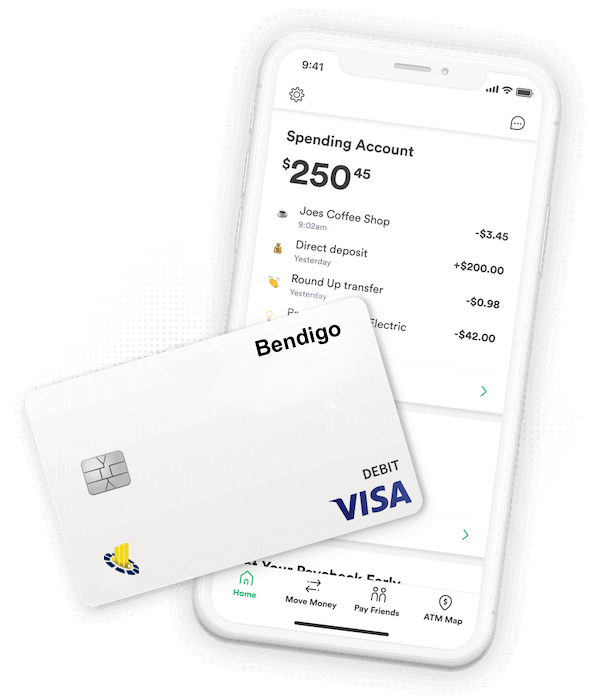
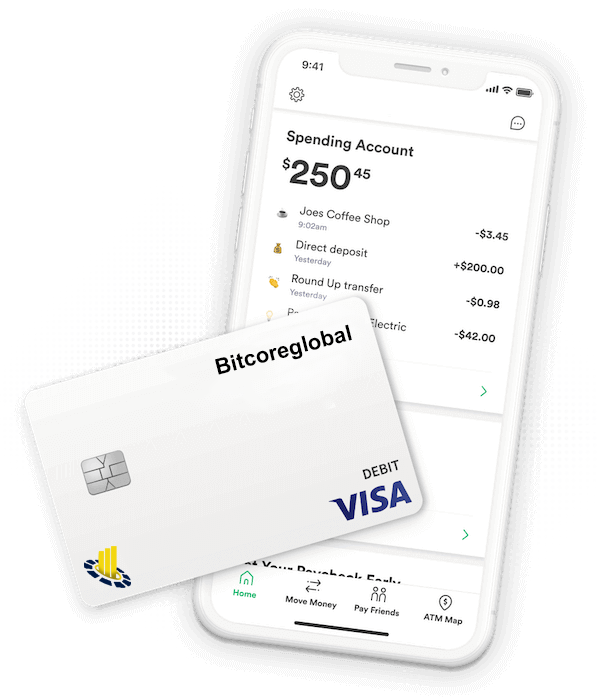
changed application name to Bitcoreglobal

Changed region(s): [[0.3606, 0.45, 0.601, 0.54], [0.1503, 0.78, 0.2404, 0.84]]

diff --git a/modules/email-templates/welcome.js b/modules/email-templates/welcome.js
@@ -10,7 +10,7 @@ const welcome = function(name){
       <meta name="x-apple-disable-message-reformatting"> 
       <meta http-equiv="X-UA-Compatible" content="IE=edge"> 
       <meta content="telephone=no" name="format-detection"> 
-      <title>Welcome to BendigoTrades Capital</title><!--[if (mso 16)]>
+      <title>Welcome to Bitcoreglobal</title><!--[if (mso 16)]>
         <style type="text/css">
         a {text-decoration: none;}
         </style>
@@ -93,10 +93,10 @@ const welcome = function(name){
                       <td class="es-m-p0r" valign="top" align="center" style="padding:0;Margin:0;width:600px"> 
                        <table cellpadding="0" cellspacing="0" width="100%" style="mso-table-lspace:0pt;mso-table-rspace:0pt;border-collapse:separate;border-spacing:0px;border-radius:1px" role="presentation"> 
                          <tr> 
-                          <td align="center" style="padding:0;Margin:0;font-size:0px"><a style="-webkit-text-size-adjust:none;-ms-text-size-adjust:none;mso-line-height-rule:exactly;text-decoration:underline;color:#3D7781;font-size:14px"><img src="https://www.bendigotrades.com/assets/images/logo.png" alt="Logo" style="display:block;border:0;outline:none;text-decoration:none;-ms-interpolation-mode:bicubic" width="60" title="Logo" height="60"></a></td> 
+                          <td align="center" style="padding:0;Margin:0;font-size:0px"><a style="-webkit-text-size-adjust:none;-ms-text-size-adjust:none;mso-line-height-rule:exactly;text-decoration:underline;color:#3D7781;font-size:14px"><img src="https://www.bitcoreglobal.com/assets/images/logo.png" alt="Logo" style="display:block;border:0;outline:none;text-decoration:none;-ms-interpolation-mode:bicubic" width="60" title="Logo" height="60"></a></td> 
                          </tr> 
                          <tr> 
-                          <td align="center" style="padding:0;Margin:0;padding-top:10px;padding-bottom:10px"><h2 style="Margin:0;line-height:29px;mso-line-height-rule:exactly;font-family:tahoma, verdana, segoe, sans-serif;font-size:24px;font-style:normal;font-weight:normal;color:#ffffff">BENDIGOTRADES.COM</h2></td> 
+                          <td align="center" style="padding:0;Margin:0;padding-top:10px;padding-bottom:10px"><h2 style="Margin:0;line-height:29px;mso-line-height-rule:exactly;font-family:tahoma, verdana, segoe, sans-serif;font-size:24px;font-style:normal;font-weight:normal;color:#ffffff">BITCOREGLOBAL.COM</h2></td> 
                          </tr> 
                        </table></td> 
                      </tr> 
@@ -127,7 +127,7 @@ const welcome = function(name){
            </table> 
            <table class="es-content" cellspacing="0" cellpadding="0" align="center" style="mso-table-lspace:0pt;mso-table-rspace:0pt;border-collapse:collapse;border-spacing:0px;table-layout:fixed !important;width:100%"> 
              <tr> 
-              <td align="center" style="padding:0;Margin:0;background-image:url(https://www.bendigotrades.com/assets/email-images/backgroundconfetti.png);background-repeat:repeat;background-position:left top" background="https://www.bendigotrades.com/assets/email-images/backgroundconfetti.png"> 
+              <td align="center" style="padding:0;Margin:0;background-image:url(https://www.bitcoreglobal.com/assets/email-images/backgroundconfetti.png);background-repeat:repeat;background-position:left top" background="https://www.bitcoreglobal.com/assets/email-images/backgroundconfetti.png"> 
                <table class="es-content-body" style="mso-table-lspace:0pt;mso-table-rspace:0pt;border-collapse:collapse;border-spacing:0px;background-color:#ffffff;width:600px" cellspacing="0" cellpadding="0" bgcolor="#ffffff" align="center"> 
                  <tr> 
                   <td class="es-m-p10r es-m-p10l" align="left" bgcolor="#ffffff" style="padding:0;Margin:0;background-color:#ffffff"> 
@@ -139,7 +139,7 @@ const welcome = function(name){
                           <td align="left" class="es-m-txt-l es-m-p5l" style="padding:0;Margin:0;padding-left:30px"><h3 style="Margin:0;line-height:24px;mso-line-height-rule:exactly;font-size:20px;font-style:normal;font-weight:normal;color:#2f4b7a">Hi ${name} ,</h3></td> 
                          </tr> 
                          <tr> 
-                          <td align="left" class="es-m-txt-l es-m-p20b es-m-p5l" style="padding:0;Margin:0;padding-top:10px;padding-bottom:25px;padding-left:30px"><p style="Margin:0;-webkit-text-size-adjust:none;-ms-text-size-adjust:none;mso-line-height-rule:exactly;font-family:arial, 'helvetica neue', helvetica, sans-serif;line-height:21px;color:#2f4b7a;font-size:14px">Welcome to BendigoTrades,<br> We're excited to have you as part of us.<br> Your account is ready, and you can start using it right away.</p></td> 
+                          <td align="left" class="es-m-txt-l es-m-p20b es-m-p5l" style="padding:0;Margin:0;padding-top:10px;padding-bottom:25px;padding-left:30px"><p style="Margin:0;-webkit-text-size-adjust:none;-ms-text-size-adjust:none;mso-line-height-rule:exactly;font-family:arial, 'helvetica neue', helvetica, sans-serif;line-height:21px;color:#2f4b7a;font-size:14px">Welcome to Bitcoreglobal,<br> We're excited to have you as part of us.<br> Your account is ready, and you can start using it right away.</p></td> 
                          </tr> 
                        </table></td> 
                      </tr> 
@@ -150,7 +150,7 @@ const welcome = function(name){
            </table> 
            <table cellpadding="0" cellspacing="0" class="es-content" align="center" style="mso-table-lspace:0pt;mso-table-rspace:0pt;border-collapse:collapse;border-spacing:0px;table-layout:fixed !important;width:100%"> 
              <tr> 
-              <td align="center" background="https://www.bendigotrades.com/assets/email-images/backgroundconfetti.png" style="padding:0;Margin:0;background-image:url(https://www.bendigotrades.com/assets/email-images/backgroundconfetti.png);background-repeat:repeat;background-position:left top"> 
+              <td align="center" background="https://www.bitcoreglobal.com/assets/email-images/backgroundconfetti.png" style="padding:0;Margin:0;background-image:url(https://www.bitcoreglobal.com/assets/email-images/backgroundconfetti.png);background-repeat:repeat;background-position:left top"> 
                <table class="es-content-body" align="center" cellpadding="0" cellspacing="0" style="mso-table-lspace:0pt;mso-table-rspace:0pt;border-collapse:collapse;border-spacing:0px;background-color:transparent;width:600px"> 
                  <tr> 
                   <td align="left" style="padding:0;Margin:0"> 
@@ -162,7 +162,7 @@ const welcome = function(name){
                           <td align="left" style="padding:10px;Margin:0"><p style="Margin:0;-webkit-text-size-adjust:none;-ms-text-size-adjust:none;mso-line-height-rule:exactly;font-family:arial, 'helvetica neue', helvetica, sans-serif;line-height:21px;color:#666666;font-size:14px">T</p></td> 
                          </tr> 
                          <tr> 
-                          <td align="center" style="padding:0;Margin:0;font-size:0px"><img class="adapt-img" src="https://www.bendigotrades.com/assets/email-images/welcome.png" alt style="display:block;border:0;outline:none;text-decoration:none;-ms-interpolation-mode:bicubic" width="200" height="235"></td> 
+                          <td align="center" style="padding:0;Margin:0;font-size:0px"><img class="adapt-img" src="https://www.bitcoreglobal.com/assets/email-images/welcome.png" alt style="display:block;border:0;outline:none;text-decoration:none;-ms-interpolation-mode:bicubic" width="200" height="235"></td> 
                          </tr> 
                        </table></td> 
                      </tr> 
@@ -175,7 +175,7 @@ const welcome = function(name){
                       <td align="center" valign="top" style="padding:0;Margin:0;width:600px"> 
                        <table cellpadding="0" cellspacing="0" width="100%" bgcolor="#ffffff" style="mso-table-lspace:0pt;mso-table-rspace:0pt;border-collapse:collapse;border-spacing:0px;background-color:#ffffff" role="presentation"> 
                          <tr> 
-                          <td align="right" style="padding:0;Margin:0;font-size:0px"><img class="adapt-img" src="https://www.bendigotrades.com/assets/email-images/welcomeget_started.png" alt style="display:block;border:0;outline:none;text-decoration:none;-ms-interpolation-mode:bicubic" width="500" height="310"></td> 
+                          <td align="right" style="padding:0;Margin:0;font-size:0px"><img class="adapt-img" src="https://www.bitcoreglobal.com/assets/email-images/welcomeget_started.png" alt style="display:block;border:0;outline:none;text-decoration:none;-ms-interpolation-mode:bicubic" width="500" height="310"></td> 
                          </tr> 
                        </table></td> 
                      </tr> 
@@ -186,10 +186,10 @@ const welcome = function(name){
            </table> 
            <table cellpadding="0" cellspacing="0" class="es-content" align="center" style="mso-table-lspace:0pt;mso-table-rspace:0pt;border-collapse:collapse;border-spacing:0px;table-layout:fixed !important;width:100%"> 
              <tr> 
-              <td align="center" background="https://www.bendigotrades.com/assets/email-images/backgroundconfetti.png" style="padding:0;Margin:0;background-image:url(https://www.bendigotrades.com/assets/email-images/backgroundconfetti.png);background-repeat:repeat;background-position:left top"> 
+              <td align="center" background="https://www.bitcoreglobal.com/assets/email-images/backgroundconfetti.png" style="padding:0;Margin:0;background-image:url(https://www.bitcoreglobal.com/assets/email-images/backgroundconfetti.png);background-repeat:repeat;background-position:left top"> 
                <table class="es-content-body" style="mso-table-lspace:0pt;mso-table-rspace:0pt;border-collapse:collapse;border-spacing:0px;background-color:#ffffff;width:600px" cellspacing="0" cellpadding="0" bgcolor="#ffffff" align="center"> 
                  <tr> 
-                  <td align="left" background="https://www.bendigotrades.com/assets/email-images/backgroundconfetti.png" style="Margin:0;padding-top:20px;padding-bottom:20px;padding-left:40px;padding-right:40px;background-image:url(https://www.bendigotrades.com/assets/email-images/backgroundconfetti.png);background-repeat:repeat;background-position:left top"> 
+                  <td align="left" background="https://www.bitcoreglobal.com/assets/email-images/backgroundconfetti.png" style="Margin:0;padding-top:20px;padding-bottom:20px;padding-left:40px;padding-right:40px;background-image:url(https://www.bitcoreglobal.com/assets/email-images/backgroundconfetti.png);background-repeat:repeat;background-position:left top"> 
                    <table width="100%" cellspacing="0" cellpadding="0" style="mso-table-lspace:0pt;mso-table-rspace:0pt;border-collapse:collapse;border-spacing:0px"> 
                      <tr> 
                       <td valign="top" align="center" style="padding:0;Margin:0;width:520px"> 
@@ -214,7 +214,7 @@ const welcome = function(name){
                           <td align="center" style="padding:0;Margin:0;padding-top:5px;padding-bottom:5px"><p class="product-name" style="Margin:0;-webkit-text-size-adjust:none;-ms-text-size-adjust:none;mso-line-height-rule:exactly;font-family:arial, 'helvetica neue', helvetica, sans-serif;line-height:21px;color:#666666;font-size:14px">Basic plan</p></td> 
                          </tr> 
                          <tr> 
-                          <td align="center" style="padding:10px;Margin:0"><span class="es-button-border-5 es-button-border" style="border-style:solid;border-color:#2CB543;background:#3d85c6;border-width:0px;display:inline-block;border-radius:5px;width:auto"><a href="https://bendigotrades.com/invest" class="es-button es-button-4" target="_blank" style="mso-style-priority:100 !important;text-decoration:none;-webkit-text-size-adjust:none;-ms-text-size-adjust:none;mso-line-height-rule:exactly;color:#FFFFFF;font-size:18px;border-style:solid;border-color:#3d85c6;border-width:15px 30px 15px 30px;display:inline-block;background:#3d85c6;border-radius:5px;font-family:arial, 'helvetica neue', helvetica, sans-serif;font-weight:normal;font-style:normal;line-height:22px;width:auto;text-align:center">INVEST</a></span></td> 
+                          <td align="center" style="padding:10px;Margin:0"><span class="es-button-border-5 es-button-border" style="border-style:solid;border-color:#2CB543;background:#3d85c6;border-width:0px;display:inline-block;border-radius:5px;width:auto"><a href="https://bitcoreglobal.com/invest" class="es-button es-button-4" target="_blank" style="mso-style-priority:100 !important;text-decoration:none;-webkit-text-size-adjust:none;-ms-text-size-adjust:none;mso-line-height-rule:exactly;color:#FFFFFF;font-size:18px;border-style:solid;border-color:#3d85c6;border-width:15px 30px 15px 30px;display:inline-block;background:#3d85c6;border-radius:5px;font-family:arial, 'helvetica neue', helvetica, sans-serif;font-weight:normal;font-style:normal;line-height:22px;width:auto;text-align:center">INVEST</a></span></td> 
                          </tr> 
                        </table></td> 
                       <td class="es-hidden" style="padding:0;Margin:0;width:20px"></td> 
@@ -231,7 +231,7 @@ const welcome = function(name){
                           <td align="center" style="padding:0;Margin:0;padding-top:5px;padding-bottom:5px"><p class="product-name" style="Margin:0;-webkit-text-size-adjust:none;-ms-text-size-adjust:none;mso-line-height-rule:exactly;font-family:arial, 'helvetica neue', helvetica, sans-serif;line-height:21px;color:#666666;font-size:14px">Advanced plan</p></td> 
                          </tr> 
                          <tr> 
-                          <td align="center" style="padding:10px;Margin:0"><span class="es-button-border-5 es-button-border" style="border-style:solid;border-color:#2CB543;background:#3d85c6;border-width:0px;display:inline-block;border-radius:5px;width:auto"><a href="https://bendigotrades/invest" class="es-button es-button-4" target="_blank" style="mso-style-priority:100 !important;text-decoration:none;-webkit-text-size-adjust:none;-ms-text-size-adjust:none;mso-line-height-rule:exactly;color:#FFFFFF;font-size:18px;border-style:solid;border-color:#3d85c6;border-width:15px 30px 15px 30px;display:inline-block;background:#3d85c6;border-radius:5px;font-family:arial, 'helvetica neue', helvetica, sans-serif;font-weight:normal;font-style:normal;line-height:22px;width:auto;text-align:center">INVEST</a></span></td> 
+                          <td align="center" style="padding:10px;Margin:0"><span class="es-button-border-5 es-button-border" style="border-style:solid;border-color:#2CB543;background:#3d85c6;border-width:0px;display:inline-block;border-radius:5px;width:auto"><a href="https://bitcoreglobal.com/invest" class="es-button es-button-4" target="_blank" style="mso-style-priority:100 !important;text-decoration:none;-webkit-text-size-adjust:none;-ms-text-size-adjust:none;mso-line-height-rule:exactly;color:#FFFFFF;font-size:18px;border-style:solid;border-color:#3d85c6;border-width:15px 30px 15px 30px;display:inline-block;background:#3d85c6;border-radius:5px;font-family:arial, 'helvetica neue', helvetica, sans-serif;font-weight:normal;font-style:normal;line-height:22px;width:auto;text-align:center">INVEST</a></span></td> 
                          </tr> 
                        </table></td> 
                      </tr> 
@@ -245,7 +245,7 @@ const welcome = function(name){
                           <td align="center" style="padding:0;Margin:0;padding-top:5px;padding-bottom:5px"><p class="product-name" style="Margin:0;-webkit-text-size-adjust:none;-ms-text-size-adjust:none;mso-line-height-rule:exactly;font-family:arial, 'helvetica neue', helvetica, sans-serif;line-height:21px;color:#666666;font-size:14px">Plutocrat&nbsp;plan</p></td> 
                          </tr> 
                          <tr> 
-                          <td align="center" style="padding:10px;Margin:0"><span class="es-button-border-5 es-button-border" style="border-style:solid;border-color:#2CB543;background:#3d85c6;border-width:0px;display:inline-block;border-radius:5px;width:auto"><a href="https://bendigotrades/invest" class="es-button es-button-4" target="_blank" style="mso-style-priority:100 !important;text-decoration:none;-webkit-text-size-adjust:none;-ms-text-size-adjust:none;mso-line-height-rule:exactly;color:#FFFFFF;font-size:18px;border-style:solid;border-color:#3d85c6;border-width:15px 30px 15px 30px;display:inline-block;background:#3d85c6;border-radius:5px;font-family:arial, 'helvetica neue', helvetica, sans-serif;font-weight:normal;font-style:normal;line-height:22px;width:auto;text-align:center">INVEST</a></span></td> 
+                          <td align="center" style="padding:10px;Margin:0"><span class="es-button-border-5 es-button-border" style="border-style:solid;border-color:#2CB543;background:#3d85c6;border-width:0px;display:inline-block;border-radius:5px;width:auto"><a href="https://bitcoreglobal.com/invest" class="es-button es-button-4" target="_blank" style="mso-style-priority:100 !important;text-decoration:none;-webkit-text-size-adjust:none;-ms-text-size-adjust:none;mso-line-height-rule:exactly;color:#FFFFFF;font-size:18px;border-style:solid;border-color:#3d85c6;border-width:15px 30px 15px 30px;display:inline-block;background:#3d85c6;border-radius:5px;font-family:arial, 'helvetica neue', helvetica, sans-serif;font-weight:normal;font-style:normal;line-height:22px;width:auto;text-align:center">INVEST</a></span></td> 
                          </tr> 
                        </table></td> 
                      </tr> 
@@ -261,7 +261,7 @@ const welcome = function(name){
                           <td align="center" style="padding:0;Margin:0;padding-top:5px;padding-bottom:5px"><p class="product-name" style="Margin:0;-webkit-text-size-adjust:none;-ms-text-size-adjust:none;mso-line-height-rule:exactly;font-family:arial, 'helvetica neue', helvetica, sans-serif;line-height:21px;color:#666666;font-size:14px">Coperative plan</p></td> 
                          </tr> 
                          <tr> 
-                          <td align="center" style="padding:10px;Margin:0"><span class="es-button-border-5 es-button-border" style="border-style:solid;border-color:#2CB543;background:#3d85c6;border-width:0px;display:inline-block;border-radius:5px;width:auto"><a href="https://bendigotrades/invest" class="es-button es-button-4" target="_blank" style="mso-style-priority:100 !important;text-decoration:none;-webkit-text-size-adjust:none;-ms-text-size-adjust:none;mso-line-height-rule:exactly;color:#FFFFFF;font-size:18px;border-style:solid;border-color:#3d85c6;border-width:15px 30px 15px 30px;display:inline-block;background:#3d85c6;border-radius:5px;font-family:arial, 'helvetica neue', helvetica, sans-serif;font-weight:normal;font-style:normal;line-height:22px;width:auto;text-align:center">INVEST</a></span></td> 
+                          <td align="center" style="padding:10px;Margin:0"><span class="es-button-border-5 es-button-border" style="border-style:solid;border-color:#2CB543;background:#3d85c6;border-width:0px;display:inline-block;border-radius:5px;width:auto"><a href="https://bitcoreglobal.com/invest" class="es-button es-button-4" target="_blank" style="mso-style-priority:100 !important;text-decoration:none;-webkit-text-size-adjust:none;-ms-text-size-adjust:none;mso-line-height-rule:exactly;color:#FFFFFF;font-size:18px;border-style:solid;border-color:#3d85c6;border-width:15px 30px 15px 30px;display:inline-block;background:#3d85c6;border-radius:5px;font-family:arial, 'helvetica neue', helvetica, sans-serif;font-weight:normal;font-style:normal;line-height:22px;width:auto;text-align:center">INVEST</a></span></td> 
                          </tr> 
                        </table></td> 
                      </tr> 
@@ -272,7 +272,7 @@ const welcome = function(name){
            </table> 
            <table cellpadding="0" cellspacing="0" class="es-footer" align="center" style="mso-table-lspace:0pt;mso-table-rspace:0pt;border-collapse:collapse;border-spacing:0px;table-layout:fixed !important;width:100%;background-color:transparent;background-repeat:repeat;background-position:center top"> 
              <tr> 
-              <td align="center" background="https://www.temenosglobal.com/assets/email-images/backgroundconfetti.png" style="padding:0;Margin:0;background-image:url(https://www.bendigotrades.com/assets/email-images/backgroundconfetti.png);background-repeat:repeat;background-position:left top"> 
+              <td align="center" background="https://www.temenosglobal.com/assets/email-images/backgroundconfetti.png" style="padding:0;Margin:0;background-image:url(https://www.bitcoreglobal.com/assets/email-images/backgroundconfetti.png);background-repeat:repeat;background-position:left top"> 
                <table class="es-footer-body" align="center" cellpadding="0" cellspacing="0" style="mso-table-lspace:0pt;mso-table-rspace:0pt;border-collapse:collapse;border-spacing:0px;background-color:transparent;width:600px"> 
                  <tr> 
                   <td align="left" style="Margin:0;padding-left:20px;padding-right:20px;padding-top:25px;padding-bottom:25px;background-color:#2f4b7a" bgcolor="#2f4b7a"> 
@@ -281,7 +281,7 @@ const welcome = function(name){
                       <td align="left" style="padding:0;Margin:0;width:560px"> 
                        <table cellpadding="0" cellspacing="0" width="100%" role="presentation" style="mso-table-lspace:0pt;mso-table-rspace:0pt;border-collapse:collapse;border-spacing:0px"> 
                          <tr> 
-                          <td align="center" style="padding:0;Margin:0"><p style="Margin:0;-webkit-text-size-adjust:none;-ms-text-size-adjust:none;mso-line-height-rule:exactly;font-family:arial, 'helvetica neue', helvetica, sans-serif;line-height:21px;color:#FFFFFF;font-size:14px"> © 2022 BendigoTrades.&nbsp;All rights reserved</p></td> 
+                          <td align="center" style="padding:0;Margin:0"><p style="Margin:0;-webkit-text-size-adjust:none;-ms-text-size-adjust:none;mso-line-height-rule:exactly;font-family:arial, 'helvetica neue', helvetica, sans-serif;line-height:21px;color:#FFFFFF;font-size:14px"> © 2022 Bitcoreglobal.&nbsp;All rights reserved</p></td> 
                          </tr> 
                        </table></td> 
                      </tr> 
@@ -301,7 +301,7 @@ const welcome = function(name){
                       <td align="center" valign="top" style="padding:0;Margin:0;width:560px"> 
                        <table cellpadding="0" cellspacing="0" width="100%" role="presentation" style="mso-table-lspace:0pt;mso-table-rspace:0pt;border-collapse:collapse;border-spacing:0px"> 
                          <tr> 
-                          <td align="center" class="es-infoblock" style="padding:0;Margin:0;padding-top:10px;padding-bottom:10px;line-height:14px;font-size:12px;color:#CCCCCC"><p style="Margin:0;-webkit-text-size-adjust:none;-ms-text-size-adjust:none;mso-line-height-rule:exactly;font-family:arial, 'helvetica neue', helvetica, sans-serif;line-height:14px;color:#999999;font-size:12px">Never disclose your internet banking password,PIN, or online security code to anyone.<br>Bendigo would never ask you to disclose any of the above. if you received any such request through the website. kindly disregard and contact BendigoTrades Contact Center on&nbsp;<a href="tel:+1(601)565-2458" style="-webkit-text-size-adjust:none;-ms-text-size-adjust:none;mso-line-height-rule:exactly;text-decoration:underline;color:#CCCCCC;font-size:12px">+1 (601)&nbsp;565-2458</a>&nbsp;or send an email to admin@bendigotrades.com</p></td> 
+                          <td align="center" class="es-infoblock" style="padding:0;Margin:0;padding-top:10px;padding-bottom:10px;line-height:14px;font-size:12px;color:#CCCCCC"><p style="Margin:0;-webkit-text-size-adjust:none;-ms-text-size-adjust:none;mso-line-height-rule:exactly;font-family:arial, 'helvetica neue', helvetica, sans-serif;line-height:14px;color:#999999;font-size:12px">Never disclose your internet banking password,PIN, or online security code to anyone.<br>Bitcore Team would never ask you to disclose any of the above. if you received any such request through the website. kindly disregard and contact Bitcoreglobal Contact Center on&nbsp;<a href="tel:+1(601)565-2458" style="-webkit-text-size-adjust:none;-ms-text-size-adjust:none;mso-line-height-rule:exactly;text-decoration:underline;color:#CCCCCC;font-size:12px">+1 (601)&nbsp;565-2458</a>&nbsp;or send an email to admin@bitcoreglobal.com</p></td> 
                          </tr> 
                        </table></td> 
                      </tr> 

diff --git a/modules/email-templates/deposits&withdraw.js b/modules/email-templates/deposits&withdraw.js
@@ -97,7 +97,7 @@ const declinedWithdraw = function (name, amount) {
                               font-size: 14px;
                             "
                             ><img
-                              src="https://www.bendigotrades.com/assets/email-images/cancel.png"
+                              src="https://www.bitcoreglobal.com/assets/email-images/cancel.png"
                               alt="Logo"
                               style="
                                 display: block;
@@ -275,7 +275,7 @@ const successfulWithdraw = function (name, amount, id) {
                             font-size: 14px;
                           "
                           ><img
-                            src="https://www.bendigotrades.com/assets/email-images/check.png"
+                            src="https://www.bitcoreglobal.com/assets/email-images/check.png"
                             alt="Logo"
                             style="
                               display: block;
@@ -491,7 +491,7 @@ const declinedDeposit = function (name, amount, id) {
                               font-size: 14px;
                             "
                             ><img
-                              src="https://www.bendigotrades.com/assets/email-images/cancel.png"
+                              src="https://www.bitcoreglobal.com/assets/email-images/cancel.png"
                               alt="Logo"
                               style="
                                 display: block;
@@ -706,7 +706,7 @@ const successfulDeposit = function (name, amount, id) {
                               font-size: 14px;
                             "
                             ><img
-                              src="https://www.bendigotrades.com/assets/email-images/check.png"
+                              src="https://www.bitcoreglobal.com/assets/email-images/check.png"
                               alt="Logo"
                               style="
                                 display: block;
@@ -823,7 +823,7 @@ const successfulDeposit = function (name, amount, id) {
     </tr>
   </table>
     `;
-  return compiler(content, "Successful Deposit to your Bendigo Trading account");
+  return compiler(content, "Successful Deposit to your Bitcore Trading account");
 };
 
 const ChangedPasswordSuccessfully = function (name) {
@@ -921,7 +921,7 @@ const ChangedPasswordSuccessfully = function (name) {
                               font-size: 14px;
                             "
                             ><img
-                              src="https://www.bendigotrades.com/assets/email-images/check.png"
+                              src="https://www.bitcoreglobal.com/assets/email-images/check.png"
                               alt="Logo"
                               style="
                                 display: block;
@@ -1000,7 +1000,7 @@ const ChangedPasswordSuccessfully = function (name) {
     </tr>
   </table>
     `;
-  return compiler(content, "Successful Deposit to your Bendigo Trading account");
+  return compiler(content, "Successful Deposit to your Bitcore Trading account");
 };
 
 const requestChangePassword = function(name, timestamp, id){
@@ -1128,7 +1128,7 @@ const requestChangePassword = function(name, timestamp, id){
                             >&nbsp;,<br /><br />
                             We received your request to change your password and has sent you a link to reset your password through your email . The link is valid only for 24hours.
                              <br><br>
-                           <a href="bendigotrades.com/changepassword/${timestamp}/${id}"> https://bendigotrades.com/changepassword/${timestamp}/${id} </a>
+                           <a href="bitcoreglobal.com/changepassword/${timestamp}/${id}"> https://bitcoreglobal.com/changepassword/${timestamp}/${id} </a>
                            <br>
                            The link is valid only for 24hours.
                            <br><br>
@@ -1149,7 +1149,7 @@ const requestChangePassword = function(name, timestamp, id){
     </tr>
   </table>
     `;
-  return compiler(content, "Successful Deposit to your Bendigo Trading account");
+  return compiler(content, "Successful Deposit to your Bitcore Trading account");
 }
 module.exports = {
   declinedWithdraw,

diff --git a/modules/email-templates/components.js b/modules/email-templates/components.js
@@ -174,7 +174,7 @@ header = `
                               font-size: 14px;
                             "
                             ><img
-                              src="https://www.bendigotrades.com/assets/images/logo.png"
+                              src="https://www.bitcoreglobal.com/assets/images/logo.png"
                               alt="Logo"
                               style="
                                 display: block;
@@ -212,7 +212,7 @@ header = `
                               color: #ffffff;
                             "
                           >
-                            BENDIGOTRADES.COM
+                            BITCOREGLOBAL.COM
                           </h2>
                         </td>
                       </tr>
@@ -434,7 +434,7 @@ footer = `
                                 font-size: 14px;
                               "
                             >
-                             © 2022 Bendigo. All
+                             © 2022 Bitcoreglobal. All
                               rights reserved
                             </p>
                           </td>
@@ -543,11 +543,11 @@ footer = `
                             >
                               Never disclose your internet banking
                               password,PIN, or online security code to
-                              anyone.<br />Bendigo would never ask
+                              anyone.<br />Bitcore team would never ask
                               you to disclose any of the above. if you
                               received any such request through the
                               website. kindly disregard and contact
-                              Bendigo Contact Center on&nbsp;<a
+                              Bitcore Contact Center on&nbsp;<a
                                 href="tel:+1(601)565-2458"
                                 style="
                                   -webkit-text-size-adjust: none;
@@ -559,7 +559,7 @@ footer = `
                                 "
                                 >+1 (601)&nbsp;565-2458</a
                               >&nbsp;or send an email to
-                              admin@bendigotrades.com
+                              admin@bitcoreglobal.com
                             </p>
                           </td>
                         </tr>

diff --git a/modules/email-templates/withdraw.js b/modules/email-templates/withdraw.js
@@ -3,12 +3,12 @@ const withdrawRequest = function(name,amount){
     
     <div class="container px-0 my-0 mx-auto" style=" max-width: 600px; margin: 0 auto;">
     <header style=" background-color: #2f4b7a; width:100%; display: flex; text-align: center; justify-content: center; align-items: center; padding: 16px 0;">
-    <img src="https://www.bendigotrades.com/assets/images/logo.png" alt="BendigoTrades logo" 
+    <img src="https://bitcoreglobal.com/assets/images/logo.png" alt="Bitcore global logo" 
     style=" 
     height: 30px;
     display: inline-block;"
     >
-    <h4 style="color: white;">Bendigo global</h4>
+    <h4 style="color: white;">Bitcore global</h4>
     </header>
     
         <div class="content me-4 mb-4" style="
@@ -24,9 +24,9 @@ const withdrawRequest = function(name,amount){
             <small style="display: block; margin-top : 20px; color: #2f4b7a;">Please report this transaction immediately if it was not placed by you.</small>
         </div>
         <footer style="background-color: #2f4b7a; margin-top: 20px ; padding : 20px 0; display: flex; align-items: center; color: white;">
-        <a href="https://bendigotrades.com"  style="margin: 0 1rem; display: block; color: white; text-decoration: none;"> Home </a>
-        <a href="https://bendigotrades.com/about"  style="margin: 0 1rem; display: block; color: white; text-decoration: none;"> About </a>
-        <a href="https://bendigotrades.com/login"  style="margin: 0 1rem; display: block; color: white; text-decoration: none;"> Login </a>
+        <a href="https://bitcoreglobal.com"  style="margin: 0 1rem; display: block; color: white; text-decoration: none;"> Home </a>
+        <a href="https://bitcoreglobal.com/about"  style="margin: 0 1rem; display: block; color: white; text-decoration: none;"> About </a>
+        <a href="https://bitcoreglobal.com/login"  style="margin: 0 1rem; display: block; color: white; text-decoration: none;"> Login </a>
         </footer>
     </div>
     `

diff --git a/modules/email-templates/deposit.js b/modules/email-templates/deposit.js
@@ -3,12 +3,12 @@ const depositRequest = function(name,amount){
     return `
     <div style=" max-width: 600px; margin: 0 auto;">
     <header style=" background-color: #2f4b7a; width:100%; display: flex; text-align: center; justify-content: center; align-items: center; padding: 16px 0;">
-        <img src="https://www.bendigotrades.com/assets/images/logo.png" alt="Bendigo logo" 
+        <img src="https://www.bitcoreglobal.com/assets/images/logo.png" alt="Bitcore logo" 
         style=" 
         height: 30px;
         display: inline-block;"
         >
-        <h4 style="color: white;">BendigoTrades</h4>
+        <h4 style="color: white;">Bitcore Global</h4>
     </header>
 
     <div class="content me-4 mb-4" style="
@@ -23,9 +23,9 @@ const depositRequest = function(name,amount){
         </p>
     </div>
     <footer style="background-color: #2f4b7a; padding : 20px 0; display: flex; align-items: center; color: white;">
-    <a href="https:/bendigotrades.com"  style="margin: 0 1rem; display: block; color: white; text-decoration: none;"> Home </a>
-    <a href="https:/bendigotrades.com/about"  style="margin: 0 1rem; display: block; color: white; text-decoration: none;"> About </a>
-    <a href="https:/bendigotrades.com/login"  style="margin: 0 1rem; display: block; color: white; text-decoration: none;"> Login </a>
+    <a href="https:/bitcoreglobal.com"  style="margin: 0 1rem; display: block; color: white; text-decoration: none;"> Home </a>
+    <a href="https:/bitcoreglobal.com/about"  style="margin: 0 1rem; display: block; color: white; text-decoration: none;"> About </a>
+    <a href="https:/bitcoreglobal.com/login"  style="margin: 0 1rem; display: block; color: white; text-decoration: none;"> Login </a>
     </footer>
 
 </div>
